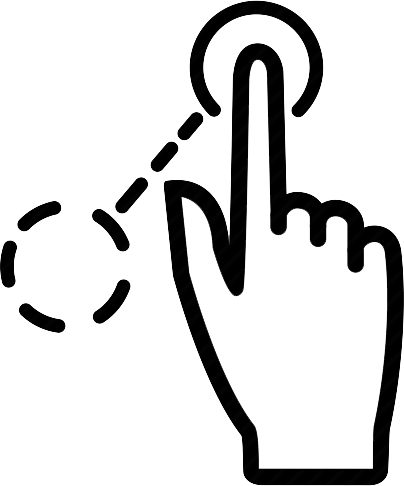
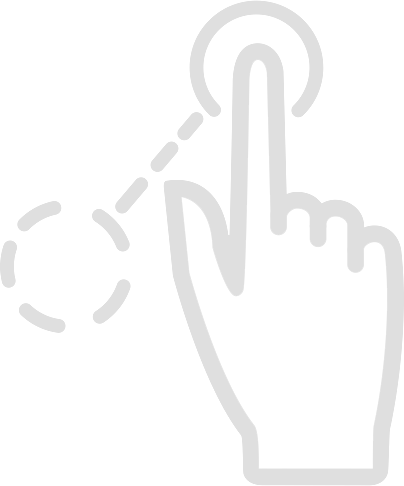
grag here png added to workspace

diff --git a/src/services/template.service.js b/src/services/template.service.js
@@ -1168,38 +1168,13 @@ const gCmps = [{
         info: {
             dir: "row",
             cmps: [{
-                    id: "gallery001",
-                    type: "web-img",
-                    info: {
-                        src: "https://res.cloudinary.com/dksmeovlj/image/upload/v1606660460/black-white-layers-paper-top-view_cxblrg.jpg"
-                    },
-                    style: {
-                        fontFamily: "unset",
-                        fontSize: "unset",
-                        fontWeight: "unset",
-
-                        margin: "unset",
-                        padding: "unset",
-                        textTransform: "unset",
-                        color: "unset",
-                        backgroundColor: "unset",
-                        borderShadow: "unset",
-                        border: "unset",
-                        borderRadius: "unset",
-                        width: "unset",
-                        height: "unset",
-                    },
-                },
-                {
                     type: "web-div",
                     name: "header-1",
                     class: "header-1-div",
                     id: utilService.makeId(10),
                     info: {
                         dir: "column",
-                        cmps: [
-
-                            {
+                        cmps: [{
                                 id: utilService.makeId(10),
                                 type: "web-txt",
                                 class: "header-1-h1",
@@ -1210,7 +1185,6 @@ const gCmps = [{
                                     fontFamily: "unset",
                                     fontSize: "4.1875rem",
                                     fontWeight: "unset",
-
                                     margin: "0 50px",
                                     padding: "unset",
                                     textTransform: "unset",
@@ -1233,7 +1207,6 @@ const gCmps = [{
                                     fontFamily: "unset",
                                     fontSize: "unset",
                                     fontWeight: "unset",
-
                                     margin: "0 50px",
                                     padding: "unset",
                                     textTransform: "unset",
@@ -1259,7 +1232,6 @@ const gCmps = [{
                                     fontFamily: "assistantLight",
                                     fontSize: "1.5em",
                                     fontWeight: "100",
-
                                     margin: "50px",
                                     padding: "20px",
                                     textTransform: "unset",
@@ -1288,7 +1260,7 @@ const gCmps = [{
             padding: "15px",
             backgroundColor: "unset",
             borderRadius: "unset",
-            width: "100%",
+            width: "unset",
             minHeight: "unset",
             height: "unset",
             backgroundImage: "unset"
@@ -1762,9 +1734,10 @@ const gCmps = [{
                                 borderShadow: "unset",
                                 border: "unset",
                                 borderRadius: "unset",
-                                // width: "unset",
+                                width: "fit-content",
                                 objectFit: "cover",
                                 height: "unset",
+
                             },
                         },
                         {
@@ -1862,7 +1835,6 @@ const gCmps = [{
             padding: "15px",
             backgroundColor: "unset",
             borderRadius: "unset",
-            width: "100%",
             minHeight: "unset",
             height: "unset",
             backgroundImage: "unset"

diff --git a/src/styles/views/_editor.scss b/src/styles/views/_editor.scss
@@ -18,17 +18,28 @@ div.editor {
         width: 85%;
         display: flex;
         flex-direction: column;
-        align-items: center;
+        justify-content: center;
+        // align-items: center;
         height: 100%;
         background-color: rgb(255, 255, 255);
         .dragArea {
             min-height: 100%;
             min-width: 100%;
+            display: flex;
+            flex-direction: column;
+            justify-content: flex-start;
+            // align-items: center;
             border: 5px dotted rgb(240, 240, 240);
+        }
+        .dragIcon {
+            background-image: url('./../assets/drag-icon.png');
+            background-position: center;
+            background-repeat: no-repeat;
         }
     }
     .controller {
-        @include scrollBar(.5rem, lighten($clr3, 35%));
+        @include scrollBar(.5rem,
+        lighten($clr3, 35%));
         // background-color: rgba(241, 241, 241, 0.5);
         overflow-y: scroll;
         overflow-x: hidden;

diff --git a/src/styles/templates/_basic001.scss b/src/styles/templates/_basic001.scss
@@ -3,9 +3,12 @@
         max-width: 400px;
     }
     .header-1-div {
+        background-image: url(http://res.cloudinary.com/dksmeovlj/image/upload/v1606688743/black-white-layers-paper-top-view_yzxa6e.jpg);
+        background-size: cover;
+        width: 100% !important;
         display: flex;
         flex-direction: column;
-        justify-content: start;
+        justify-content: space-around;
         align-items: baseline;
         min-height: 26.0625rem;
         .web-button {
@@ -38,6 +41,7 @@
 }
 
 .web-card-1-col {
+    width: 100%;
     img {
         width: 100%;
     }

diff --git a/src/cmps/workspace.cmp.vue b/src/cmps/workspace.cmp.vue
@@ -1,7 +1,7 @@
 <template>
   <div class="workspace">
     <draggable
-      :class="{ dragArea: isDragging }"
+      :class="{ dragArea: isDragging , dragIcon:!cmps.length}"
       :list="cmps"
       group="workspace-cmps"
       @change="updateSite"
